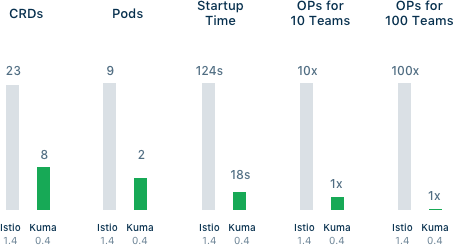
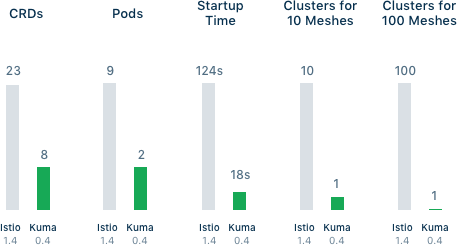
updated the performance chart. comments for clarity on the wave components.

diff --git a/docs/.vuepress/theme/components/custom/NewsletterWaves.vue b/docs/.vuepress/theme/components/custom/NewsletterWaves.vue
@@ -78,6 +78,7 @@ export default {
       const leftGroup = '.wave-group--3 path, .wave-group--4 path, .wave-group--6 path'
       const delayAmt = 100
       const strokeOffset = [animejs.setDashoffset, 0]
+      const targetWidth = 820
       
       const tl = animejs.timeline({
         easing: 'cubicBezier(.66,.3,0,.94)',
@@ -85,7 +86,10 @@ export default {
         direction: 'normal'
       })
       
-      if (window.innerWidth >= 820) {
+      // only run this function at certain widths...
+      if (window.innerWidth >= targetWidth) {
+
+        // and only run if the element is in view, and hasn't already animated
         if ( inView(container) && !this.hasAnimated ) {
           this.hasAnimated = true
 
